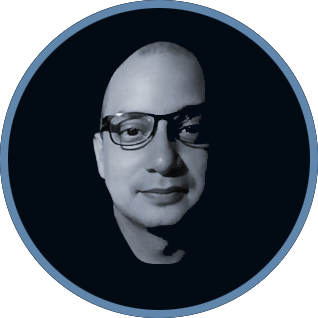
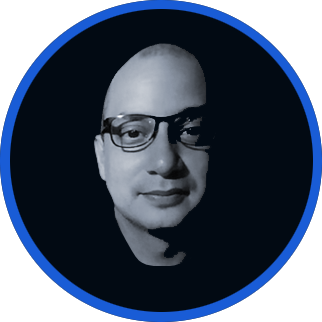
cambio diseño

diff --git a/css/estilo.css b/css/estilo.css
@@ -23,43 +23,43 @@ h1, h2, h3, h4{
 }
 
 h1{
-    color:#5e5aa8;
+    color:#195cd6;
 	font-size: 2.3rem;
 }
 
 
 
 h2{
-    color:#6086AB;
+    color:#195cd6;
 	font-size: 3rem;
 }
 
 h3{
-    color:#6086AB;
+    color:#195cd6;
 }
 
 h4{
-    color:#5e5aa8;
+    color:#1b3d53;
 }
 
 .estiloBoton{
     color:#fff !important;
-    background-color: #480e49;
+    background-color: #a9061e;
 }
 
 .estiloBoton:hover{
     color:#fff !important;
-    background-color: #531154;
+    background-color: #8c1527;
 }
 
 .estiloBotonInicio{
     color:#fff !important;
-    background-color: #480e49;
+    background-color: #a9061e;
 }
 
 .estiloBotonInicio:hover{
     color:#fff !important;
-    background-color: #531154;
+    background-color: #cd1e38;
 }
 
 
@@ -129,7 +129,7 @@ h4{
 }
 
 .menu .navbar ul li a:hover{
-	color:#1caed0;
+	color:#03a5d3;
 }
 
 #menu{
@@ -220,7 +220,7 @@ h4{
 }
 
 .avatar2 img{
-   
+    width:25%;
     float:right;
 }
 
@@ -235,6 +235,7 @@ h4{
 }
 
 .avatar3 img{
+    width:50%;
     float:right;
 }
 
@@ -249,6 +250,7 @@ h4{
 }
 
 .avatar4 img{
+    width:30%;
     float:right;
 }
 
@@ -263,6 +265,7 @@ h4{
 }
 
 .avatar5 img{
+    width:45%;
     float:right;
 }
 
@@ -277,6 +280,7 @@ h4{
 }
 
 .avatar6 img{
+    width:20%;
     float:right;
 }
 
@@ -317,7 +321,7 @@ h4{
 }
 
 .navbar a:hover{
-    color:#aaa7e7 !important;
+    color:#03a5d3 !important;
 }
 
 .dropdown-menu a:hover{
@@ -357,7 +361,7 @@ nav, .navbar-toggler {
 
 #acerca{
     padding:100px 0 ;
-	background-color: #061527;
+	background-color: #656e80;
     text-align: center;
 }
 
@@ -371,6 +375,11 @@ nav, .navbar-toggler {
 
 #acerca h2{
     padding:0 0 80px;
+    color:#1b3d53;
+}
+
+#acerca h3{
+    color:#4a2d34;
 }
 
 #pestanas{
@@ -486,7 +495,9 @@ nav, .navbar-toggler {
     padding:30px;
     background-color: #f7eded;
     border-radius: 50%;
-    border:8px solid #5e5aa8;
+    border:8px solid #563840;
+
+
 }
 
 .herramientas p{

diff --git a/index.html b/index.html
@@ -22,11 +22,7 @@
 
   <div class="header-top">
 
-
-
     <header>
-
-
       <div id="lenguaje">
         <ul class="lenguaje">
           <li class="nav-item">
@@ -77,7 +73,7 @@
       </header>
 
     <div class="montana">
-      <img src="imagenes/montana.webp" alt="" class="img-fluid">
+      <img src="imagenes/montana.png" alt="" class="img-fluid">
     </div>
 
     <section class="inicio wrap">
@@ -98,19 +94,19 @@
           <img src="imagenes/programador.png" alt="" class="img-fluid">
         </div>
         <div class=" avatar2">
-          <img src="imagenes/logo2.webp" alt="">
+          <img src="imagenes/logo2.png" alt="">
         </div>
         <div class=" avatar3">
-          <img src="imagenes/logo3.webp" alt="">
+          <img src="imagenes/logo3.png" alt="">
         </div>
         <div class=" avatar4">
-          <img src="imagenes/logo4.webp" alt="">
+          <img src="imagenes/logo4.png" alt="">
         </div>
         <div class=" avatar5">
-          <img src="imagenes/logo5.webp" alt="">
+          <img src="imagenes/logo5.png" alt="">
         </div>
         <div class=" avatar6">
-          <img src="imagenes/logo6.webp" alt="">
+          <img src="imagenes/logo6.png" alt="">
         </div>
 
         <div class="botonInicio2">
@@ -612,7 +608,7 @@
 
     <a data-scroll id="flechabtn" class="goto-top efectoHover" href="#inicio" title="ir al inicio"
       onclick="topFunction()">
-      <img src="imagenes/flecha2.png" class="img-fluid" alt="tiraflecha">
+      <img src="imagenes/flecha.webp" class="img-fluid" alt="tiraflecha">
     </a>
 
     <footer class="container-fluid fondo4 mt-5 " style="color:#fff">

diff --git a/js/lenguaje.js b/js/lenguaje.js
@@ -88,7 +88,7 @@ let changeLanguage = {
         "menuContacto": "Contácto",
         "TituloPrincipal": "Mi nombre es Walter Fallas",
         "desarrolladorWeb": "Soy un desarrollador web de San José, Costa Rica.",
-        "desarrolladorWeb2": "de San José, Costa Rica.",
+        "desarrolladorWeb2": "Me gusta crear sitios web modernos y brindar buenas experiencias al usuario. Trabajemos juntos!!",
         "saludo": "Ver Trabajos",
         "acercaDeMi": "Acerca de mi",
         "herramienta1": "Lenguajes y herramientas",
@@ -125,7 +125,7 @@ let changeLanguage = {
         "menuContacto": "Contact",
         "TituloPrincipal": "My name is Walter Fallas",
         "desarrolladorWeb": "I am a web developer from San José, Costa Rica.",
-        "desarrolladorWeb2": "from San José, Costa Rica",
+        "desarrolladorWeb2": "I love creating modern websites and provide good user experiences. Let´s work together",
         "saludo": "Check my work",
         "acercaDeMi": "About me",
         "herramienta1": "Languages and tools",
